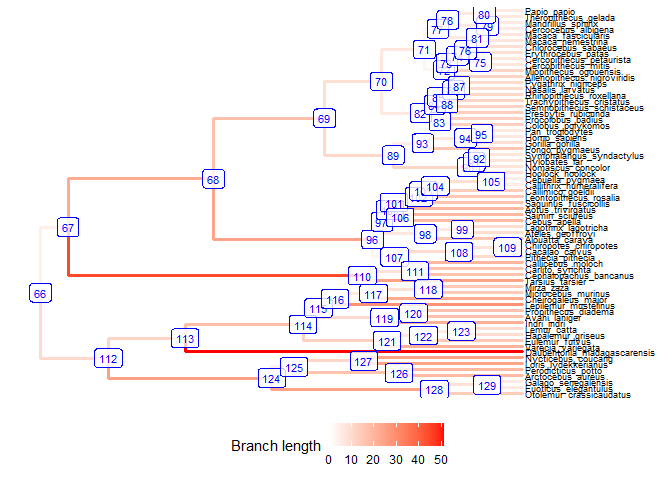
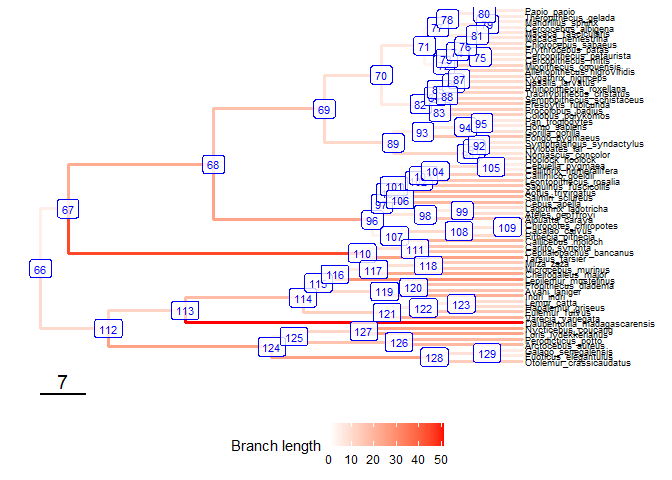
Add files via upload

Changed region(s): [[0.0312, 0.0, 0.9688, 0.8438], [0.0938, 0.3125, 0.3438, 0.4062], [0.0625, 0.7812, 0.125, 0.8438]]

diff --git a/Tutorial_1/Tut1_phylogenies.md b/Tutorial_1/Tut1_phylogenies.md
@@ -291,7 +291,8 @@ prim2 = prim.tree %>% ggtree(., aes(color=branch.length), layout = "rectangular"
   geom_tiplab(size=2.5, color="black") +
   geom_label2(aes(subset=!isTip, label=node), size=3, color="blue", alpha=0.8) + # node numbers +
   theme(legend.position="bottom") +
-  scale_color_continuous(low='white', high='red', name="Branch length")
+  scale_color_continuous(low='white', high='red', name="Branch length") +
+  geom_treescale(fontsize=5, linesize=1, offset=1, x=0, y=-5, color='black') # add a scale bar
 
 plot(prim2)
 ```
